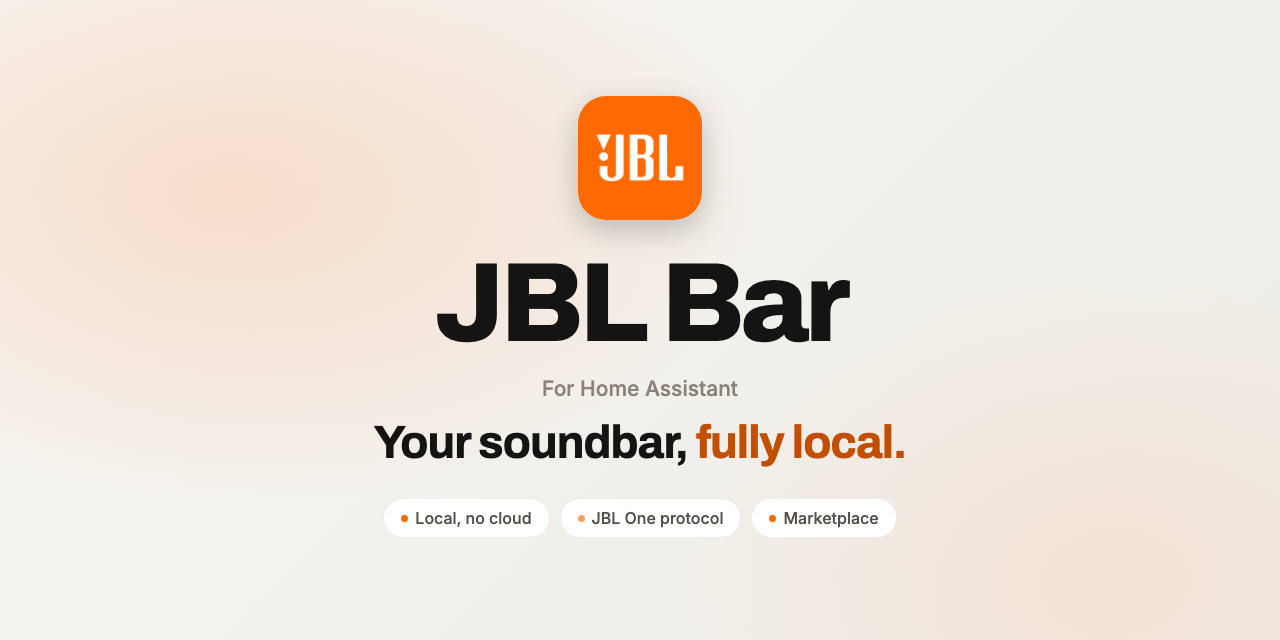
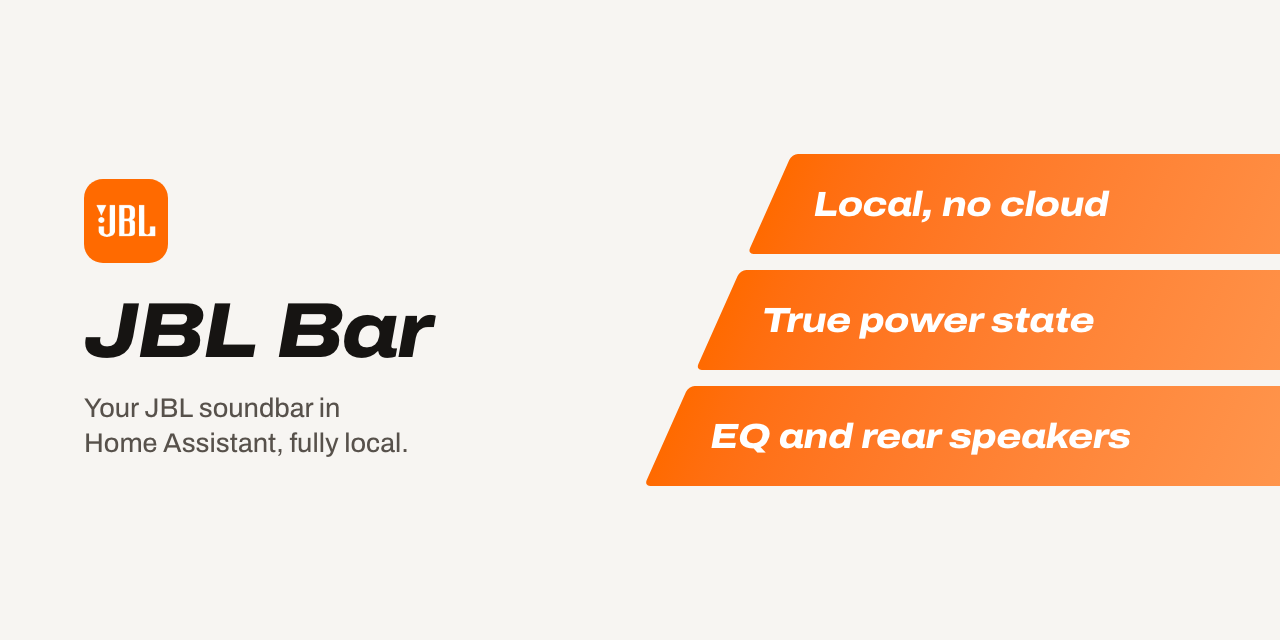
README and project page in the v2 design
Title banner with the lanes, Install and Set up as one Get started, shared
footer. The page loads theme v2 (Archivo from sh1ft-w.github.io), hero left
with the three key facts on the lanes.

Claude-Session: https://claude.ai/code/session_01TLmTtZLAvnS1BJ3w9tzxXq

diff --git a/docs/index.html b/docs/index.html
@@ -13,20 +13,17 @@
 <meta property="og:description" content="Local control for JBL soundbars with JBL One. Fast, complete, no cloud.">
 <meta property="og:image" content="https://sh1ft-w.github.io/jbl-bar/images/readme-title-social.png">
 <link rel="icon" href="logo.png">
-<link rel="preconnect" href="https://fonts.googleapis.com">
-<link rel="preconnect" href="https://fonts.gstatic.com" crossorigin>
-<link href="https://fonts.googleapis.com/css2?family=Archivo:wght@600;700;800;900&family=Inter:wght@400;500;600&family=JetBrains+Mono:wght@400;500&display=swap" rel="stylesheet">
-<!-- Shared SH1FT-W design (tokens, glass navigation, light/dark, DE/EN, reveal) -->
-<link rel="stylesheet" href="https://sh1ft-w.github.io/theme/v1/theme.css">
-<script src="https://sh1ft-w.github.io/theme/v1/theme.js"></script>
+<!-- Shared SH1FT-W design, version 2 (tokens, Archivo, navigation, light/dark, DE/EN, the lanes) -->
+<link rel="stylesheet" href="https://sh1ft-w.github.io/theme/v2/theme.css">
+<script src="https://sh1ft-w.github.io/theme/v2/theme.js"></script>
 <style>
 /* JBL-Bar-Palette: helles Grau bei Tag, fast Schwarz bei Nacht, ein Akzent in JBL-Orange */
 :root {
   --accent: #D95A00; --accent-ink: #C24F00; --on-accent: #1A0A00;
   --orange: #FF6A00; --orange-ink: #C24F00; --orange-tint: rgba(255,106,0,0.12); --orange-glow: rgba(255,106,0,0.38);
-  --font: "Inter", -apple-system, BlinkMacSystemFont, system-ui, sans-serif;
-  --display: "Archivo", "Inter", -apple-system, BlinkMacSystemFont, system-ui, sans-serif;
-  --mono: "JetBrains Mono", ui-monospace, "SF Mono", Menlo, monospace;
+  --font: "Archivo", -apple-system, BlinkMacSystemFont, system-ui, sans-serif;
+  --display: "Archivo", -apple-system, BlinkMacSystemFont, system-ui, sans-serif;
+  --mono: ui-monospace, "SF Mono", Menlo, monospace;
   --bg: #F7F5F2; --bg-2: #EFECE7; --card: #FFFFFF; --card-2: #F6F3EF;
   --ink: #161412; --ink-2: #57514B; --ink-3: rgba(22,20,18,0.52);
   --line: rgba(40,30,20,0.11); --chip: rgba(60,40,20,0.06);
@@ -93,9 +90,6 @@ section.tint { background: var(--bg-2); }
 
 /* Hero */
 .hero { padding: clamp(56px, 9vw, 112px) 0 clamp(64px, 8vw, 104px); text-align: center; overflow: hidden; }
-.hero .glow { position: absolute; inset: -20% -10% auto; height: 90%; pointer-events: none;
-  background: radial-gradient(40% 36% at 30% 30%, rgba(255,106,0,0.2), transparent 70%), radial-gradient(36% 34% at 72% 24%, rgba(255,160,90,0.18), transparent 70%);
-  filter: blur(50px); }
 .hero .wrap { position: relative; }
 .hero .lead { max-width: 640px; margin-left: auto; margin-right: auto; }
 .cta { display: flex; flex-wrap: wrap; gap: 12px; justify-content: center; margin-top: 34px; }
@@ -103,9 +97,6 @@ section.tint { background: var(--bg-2); }
 .pill { display: inline-flex; align-items: center; gap: 6px; padding: 5px 12px; border-radius: 999px; background: var(--card); box-shadow: var(--shadow); font-weight: 600; color: var(--ink-2); font-size: 13px; }
 .pill i { width: 7px; height: 7px; border-radius: 50%; background: var(--orange); display: inline-block; }
 
-/* Bühne: das README-Titelbild */
-.stage { position: relative; margin: clamp(48px, 7vw, 84px) auto 0; max-width: 1100px; }
-.stage .photo { display: block; width: 100%; height: auto; aspect-ratio: 2 / 1; border-radius: var(--radius-lg); box-shadow: var(--shadow-lg); }
 /* Das Logo ist dunkel auf transparent: im Dunkelmodus hell zeichnen */
 @media (prefers-color-scheme: dark) { :root:not([data-theme="light"]) .brand img { filter: invert(1); } }
 :root[data-theme="dark"] .brand img { filter: invert(1); }
@@ -248,6 +239,36 @@ footer .fine { flex-basis: 100%; line-height: 1.6; }
   .tbl.ctl td, .tbl.ctl th { display: table-cell; padding: 12px 10px; border-top: 1px solid var(--line); }
   .tbl.ctl th:not(:first-child), .tbl.ctl td:not(:first-child) { width: 72px; }
 }
+/* ---- theme v2 ---- */
+:root { --lane-a: #FF6A00; --lane-b: #FFA15C; --radius: 20px; --radius-lg: 28px; --max: 1200px; }
+body { font-family: var(--font); }
+h1 { font-size: clamp(44px, 6vw, 84px); line-height: 1; font-weight: 800; font-stretch: 118%; font-style: italic; letter-spacing: -0.025em; }
+h2 { font-size: clamp(30px, 3.8vw, 48px); line-height: 1.08; font-weight: 750; font-stretch: 112%; letter-spacing: -0.02em; }
+h3 { font-stretch: 106%; }
+h1 em, h2 em { color: inherit; font-style: inherit; }
+.center { text-align: left; } .center .lead { margin-left: 0; margin-right: 0; }
+.head { max-width: 50em; }
+.eyebrow { text-transform: none; letter-spacing: 0; font-size: 16px; font-weight: 650; margin-bottom: 12px; }
+.eyebrow::before { display: none; }
+.cap { text-align: left; }
+.flow { margin: 0; }
+.btn { border-radius: 12px; box-shadow: none; }
+.btn.ghost { background: var(--chip); box-shadow: none; }
+.pill { box-shadow: none; background: var(--chip); border-radius: 8px; }
+.b, .tile, .panel, .eq, .tbl, .faq details, .flow .lane { box-shadow: none; border: 1px solid var(--line); }
+.b .tag, .tg, .tbl thead th { text-transform: none; letter-spacing: 0; font-size: 13px; }
+.b .tag, .tg { border-radius: 6px; }
+.tile .ico { border-radius: 10px; }
+.hero { text-align: left; padding: clamp(48px, 7vw, 96px) 0 clamp(56px, 7vw, 96px); overflow: hidden; }
+.hero .wrap { display: grid; grid-template-columns: minmax(0, 1.15fr) minmax(0, 1fr); gap: clamp(24px, 4vw, 64px); align-items: center; }
+.hero .mark { width: 64px; height: 64px; border-radius: 15px; margin-bottom: 26px; }
+.hero .lead { margin-left: 0; max-width: 34em; }
+.cta, .meta { justify-content: flex-start; }
+.finale .cta { justify-content: center; }
+.hero .s-lanes { margin-right: calc(-1 * var(--gutter) - 14vw); }
+/* Dark text on the orange lanes: white is too faint on JBL orange */
+.s-track b { color: #1A0A00; font: italic 800 clamp(20px, 2.5vw, 34px)/1 var(--font); font-stretch: 116%; letter-spacing: -0.015em; white-space: nowrap; }
+@media (max-width: 900px) { .hero .wrap { grid-template-columns: 1fr; } .hero .s-lanes { margin: 8px calc(-1 * var(--gutter) - 8vw) 0 44px; } }
 </style>
 </head>
 <body>
@@ -273,25 +294,24 @@ footer .fine { flex-basis: 100%; line-height: 1.6; }
 </div>
 
 <section class="hero" id="top">
-  <div class="glow" aria-hidden="true"></div>
   <div class="wrap">
-    <p class="eyebrow reveal"><span class="en">JBL soundbars in Home Assistant</span><span class="de">JBL-Soundbars in Home Assistant</span></p>
-    <h1 class="reveal d1"><span class="en">Your soundbar,<br><em>fully local.</em></span><span class="de">Deine Soundbar,<br><em>ganz lokal.</em></span></h1>
-    <p class="lead reveal d2"><span class="en">Your JBL soundbar in Home Assistant, the way the JBL One app sees it: <strong>power, volume, source, EQ, sound switches, rear speakers</strong> and the live Dolby Atmos format. Straight over your network, without cloud.</span><span class="de">Deine JBL-Soundbar in Home Assistant, so wie die JBL-One-App sie sieht: <strong>Ein/Aus, Lautstärke, Quelle, EQ, Klang-Schalter, Rear-Speaker</strong> und das Dolby-Atmos-Format live. Direkt über dein Netz, ohne Cloud.</span></p>
-    <div class="cta reveal d3">
-      <a class="btn" href="#install"><span class="en">Install from the Marketplace</span><span class="de">Über den Marketplace installieren</span></a>
-      <a class="btn ghost" href="https://github.com/SH1FT-W/jbl-bar#readme"><span class="en">Read the README</span><span class="de">Zur Anleitung</span></a>
+    <div>
+      <img class="mark" src="images/readme-icon.png" alt="" width="64" height="64">
+      <h1><span class="en">Your soundbar, fully local.</span><span class="de">Deine Soundbar, ganz lokal.</span></h1>
+      <p class="lead reveal d2"><span class="en">Your JBL soundbar in Home Assistant, the way the JBL One app sees it: <strong>power, volume, source, EQ, sound switches, rear speakers</strong> and the live Dolby Atmos format. Straight over your network, without cloud.</span><span class="de">Deine JBL-Soundbar in Home Assistant, so wie die JBL-One-App sie sieht: <strong>Ein/Aus, Lautstärke, Quelle, EQ, Klang-Schalter, Rear-Speaker</strong> und das Dolby-Atmos-Format live. Direkt über dein Netz, ohne Cloud.</span></p>
+      <div class="cta reveal d3">
+        <a class="btn" href="#install"><span class="en">Install from the Marketplace</span><span class="de">Über den Marketplace installieren</span></a>
+        <a class="btn ghost" href="https://github.com/SH1FT-W/jbl-bar#readme"><span class="en">Read the README</span><span class="de">Zur Anleitung</span></a>
+      </div>
+      <p class="meta reveal d3">
+        <span class="pill"><i></i><span id="jbl-version">Version 26.11.1</span></span>
+        <span class="en">Home Assistant 2026.9 or newer &middot; English and German &middot; Apache 2.0</span><span class="de">Home Assistant 2026.9 oder neuer &middot; Deutsch und Englisch &middot; Apache 2.0</span>
+      </p>
     </div>
-    <p class="meta reveal d3">
-      <span class="pill"><i></i><span id="jbl-version">Version 26.11.1</span></span>
-      <span class="en">Home Assistant 2026.9 or newer &middot; English and German &middot; Apache 2.0</span><span class="de">Home Assistant 2026.9 oder neuer &middot; Deutsch und Englisch &middot; Apache 2.0</span>
-    </p>
-
-    <div class="stage reveal d3">
-      <picture>
-        <source media="(prefers-color-scheme: dark)" srcset="images/readme-title-dark.webp">
-        <img class="photo" src="images/readme-title-light.webp" width="2560" height="1280" alt="JBL Bar: Your soundbar, fully local.">
-      </picture>
+    <div class="s-lanes" aria-hidden="true">
+      <div class="s-lane"><div class="s-track"><b><span class="en">Local, no cloud</span><span class="de">Lokal, ohne Cloud</span></b></div></div>
+      <div class="s-lane"><div class="s-track"><b><span class="en">True power state</span><span class="de">Echter Ein/Aus-Zustand</span></b></div></div>
+      <div class="s-lane"><div class="s-track"><b><span class="en">EQ and rear speakers</span><span class="de">EQ und Rear-Speaker</span></b></div></div>
     </div>
   </div>
 </section>
@@ -477,8 +497,7 @@ footer .fine { flex-basis: 100%; line-height: 1.6; }
 
 <section class="finale">
   <div class="wrap narrow reveal">
-    <p class="eyebrow">JBL Bar</p>
-    <h2><span class="en">Turn it up.<br><em>Locally.</em></span><span class="de">Lauter machen.<br><em>Lokal.</em></span></h2>
+    <h2><span class="en">Turn it up.<br>Locally.</span><span class="de">Lauter machen.<br>Lokal.</span></h2>
     <p class="lead"><span class="en">One integration, every setting, no cloud.</span><span class="de">Eine Integration, jede Einstellung, keine Cloud.</span></p>
     <div class="cta">
       <a class="btn" href="#install"><span class="en">Install JBL Bar</span><span class="de">JBL Bar installieren</span></a>

diff --git a/README.md b/README.md
@@ -2,14 +2,14 @@
 
 <picture>
   <source media="(prefers-color-scheme: dark)" srcset="docs/images/readme-title-dark.webp" />
-  <img src="docs/images/readme-title-light.webp" alt="JBL Bar: Your soundbar, fully local." />
+  <img src="docs/images/readme-title-light.webp" alt="JBL Bar: your JBL soundbar in Home Assistant, fully local. Local, no cloud. True power state. EQ and rear speakers." />
 </picture>
 
 [![Version](https://img.shields.io/badge/dynamic/json?url=https%3A%2F%2Fraw.githubusercontent.com%2FSH1FT-W%2Fjbl-bar%2Fmain%2Fcustom_components%2Fjbl_bar%2Fmanifest.json&query=%24.version&label=version&style=flat-square&color=FF6A00&labelColor=111111)](https://github.com/SH1FT-W/jbl-bar/releases/latest)
 [![Home Assistant](https://img.shields.io/badge/Home%20Assistant-2026.9%2B-FF6A00?style=flat-square&labelColor=111111&logo=homeassistant&logoColor=white)](https://www.home-assistant.io)
 [![Marketplace](https://img.shields.io/badge/Marketplace-default-FF6A00?style=flat-square&labelColor=111111)](https://hacs.xyz)
 
-<a href="https://sh1ft-w.github.io/jbl-bar"><b>Website</b></a>&emsp;<a href="#install">Install</a>&emsp;<a href="#set-up">Set up</a>&emsp;<a href="#entities">Entities</a>&emsp;<a href="CHANGELOG.md">Changelog</a>
+<a href="https://sh1ft-w.github.io/jbl-bar"><b>Website</b></a>&emsp;<a href="#get-started">Get started</a>&emsp;<a href="#entities">Entities</a>&emsp;<a href="#examples">Examples</a>&emsp;<a href="CHANGELOG.md">Changelog</a>
 
 </div>
 
@@ -19,7 +19,7 @@ Your JBL soundbar in Home Assistant, the way the JBL One app sees it: **power, v
 
 Made for the **JBL Bar series with JBL One** (Bar 300, 500, 700, 800, 1000, 1300 and the MK2 models). Every command was read from the app and tried out on a **Bar 1000** (firmware 25.52), the only model tested so far. It replaces `jbl_integration` and **keeps its entity IDs**.
 
-## What you can control
+## What you get
 
 |  | See | Change |
 |:--|:--:|:--:|
@@ -39,12 +39,18 @@ Features a model does not know are not created.
 
 **New in 26.11:** announcements with `tts.speak`, after which the bar gets its source, volume and standby back; the input as a select for automations; audio format events survive a new IP address; and commands no longer fail now and then with "Server disconnected". Every change is in the [changelog](CHANGELOG.md).
 
-<a id="install"></a>
-## Install
+<a id="get-started"></a><a id="install"></a><a id="set-up"></a>
+## Get started
 
 [![Open in the Marketplace](https://my.home-assistant.io/badges/hacs_repository.svg)](https://my.home-assistant.io/redirect/hacs_repository/?owner=SH1FT-W&repository=jbl-bar&category=integration)
 
-Search for **JBL Bar** under **Settings > Marketplace** (called HACS before Home Assistant 2026.11), download it and restart Home Assistant.
+For the audio format and for announcements the bar has to reach Home Assistant: the internal URL in Home Assistant's network settings should be an IP address (the default on most installations).
+
+1. **Install it.** Search for **JBL Bar** under **Settings > Marketplace** (called HACS before Home Assistant 2026.11), download it and restart Home Assistant.
+2. **Add the bar.** It usually shows up under **Settings > Devices & services > Discovered**. If not, choose **Add integration > JBL Bar** and enter its IP address.
+3. **Pick an announcement volume** if you like, under **three dots > Configure**. 0 (the default) keeps the current volume.
+
+If the bar gets a new IP address later, use **three dots > Reconfigure**.
 
 <details>
 <summary>Install by hand</summary>
@@ -53,16 +59,6 @@ Search for **JBL Bar** under **Settings > Marketplace** (called HACS before Home
 2. Copy `custom_components/jbl_bar` into `/config/custom_components/` and restart Home Assistant.
 
 </details>
-
-<a id="set-up"></a>
-## Set up
-
-For the audio format and for announcements the bar has to reach Home Assistant: the internal URL in Home Assistant's network settings should be an IP address (the default on most installations).
-
-1. **Add the bar.** It usually shows up under **Settings > Devices & services > Discovered**. If not, choose **Add integration > JBL Bar** and enter its IP address.
-2. **Pick an announcement volume** if you like, under **three dots > Configure**. 0 (the default) keeps the current volume.
-
-If the bar gets a new IP address later, use **three dots > Reconfigure**.
 
 <a id="coming-from-jbl_integration"></a>
 <details>
@@ -113,6 +109,7 @@ IDs for a bar named "JBL Bar 1000", the same as in `jbl_integration`. Names are 
 
 </details>
 
+<a id="examples"></a>
 ## Examples
 
 Let the bar speak:
@@ -206,3 +203,11 @@ Test requirements: `pip install -r requirements_test.txt`. GitHub Actions runs t
 [Apache License 2.0](LICENSE), Copyright 2026 SH1FT-W. The client certificate is third-party material under the MIT License, see [`certs/LICENSE`](custom_components/jbl_bar/certs/LICENSE) and [`NOTICE`](NOTICE).
 
 <sub>JBL Bar is an independent project, not affiliated with, endorsed or sponsored by Harman International, JBL or Linkplay. JBL is a trademark of Harman International Industries, Incorporated.</sub>
+
+<br/>
+
+<div align="center">
+<a href="https://sh1ft-w.github.io"><img src="https://sh1ft-w.github.io/readme/footer.png" width="640" alt="All SH1FT-W projects"></a>
+<br/>
+<sub>More open source for Home Assistant and the Mac at <a href="https://sh1ft-w.github.io">sh1ft-w.github.io</a></sub>
+</div>
